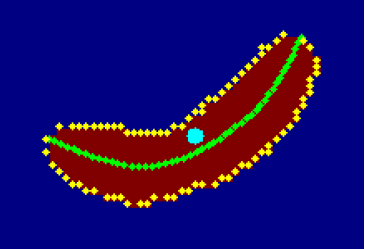
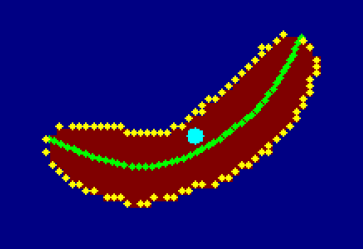
Add guide and readme

Changed region(s): [[0.1212, 0.1124, 0.9091, 0.8434]]

diff --git a/README.md b/README.md
@@ -1,8 +1,9 @@
-#WHISIT
-##Purpose
+# WHISIT
+
+## Purpose
 ***WHISIT*** (WHere IS IT) is a Matlab-based program developed to identify bacteria and measures the fluorescent signal in different compartments. It can do this on a set of independent microscopy pictures, or on a movie and trcking cells to follow the signal through multiple generations and cell-lines.
 
-####Background
+#### Background
 There are several programs for the analysis of foci and count numbers of spots in bacterial cells. However, few addresses how signal is distributed inside bacterial cells using a high-throughput and quantitative approach. For this reason the program WHISIT was created: for high-throughput quantification of fluorescent signal, specifically in into different areas of cells (e.g., membrane, cytosolic and polar compartments), rather than simply giving the average intensity value (as it is done by most software). Lastly, WHISIT can plot the fluorescence signal of related cells tracked in time lapse as a lineage tree, allowing for quantifying intergenerational changes. 
 
 In the following guide, we will explain how the program works and how to use it. WHISIT was created to be easy to use and no knowledge of programming is required, since it works with a graphic user interface (GUI). Results are created in a user friendly format accessible via Excel or any other similar spread-sheet program. In the last section, we will illustrate an outlook for the program and future improvements.
@@ -18,7 +19,7 @@ The program is divided into three GUI tabs, selectable in the upper part of the 
 - ***Lineage*** tab performs the analysis of time lapse images. This function track the changes in individual cells over time, tracking them across multiple frames. The stack of images are assumed to be from a time lapse or movie. This approach follows the changes occurring across generations, storing the information of divisions and relationships in order to re-create lineage trees. 
 - ***Plot Lineage*** tab generate plots using the results from the "Lineage” analysis. The plots display changes in fluorescence over generations as a lineage tree. WHISIT can analyse up to two fluorescent channels at a time for a given experiment.
 
-##0 – MicrobeTracker or Oufti?
+## 0 – MicrobeTracker or Oufti?
 WHISIT works side-by-side and uses the “detection” output file generated by either MicrobeTracker or Oufti: 
 	- **MicrobeTracker** (http://microbetracker.org/, Sliusarenko, O. et al., 2011)  
 	- **Oufti** (http://oufti.org/index.html, Paintdakhi, A. et al., 2016). 
@@ -26,19 +27,19 @@ Both programs are Matlab-based and their core algorithm take stacks of bright fi
 *Oufti* is the upgraded version of *MicrobeTracker* and therefore its use is recommended. Oufti has a superior cell identification algorithm, greater flexibility in the parameters chosen for analysis and is less prone to detection errors.
 A file is generated at the conclusion of the analysis of either program, in the Matlab format “.mat”. WHISIT can use the result generated by either of MicrobeTracker or Oufti: select from which program the *Detection.mat* was generated at point G in [Figure 1](Guide_Figures/WHISIT_GUI.png). 
 
-####Format of input images
+#### Format of input images
 A stack of bright field images is given as input in “Independent frames” analysis. This approach will consider each frame unrelated from the other and identify any cell within it (in the Matlab format “.mat”). The area of fluorescent signal for a cell can be slightly bigger than the area occupiedy in the bright field image. Using stringent or wrong parameters for cell detection could result in cells having a perimeter cut off part of the fluorescent signal. Experiment with a range of parameters in the detection of MicrobeTracker/Oufti to find the correct detection parameters that allow to include the fluorescent signal correctly. Each microscope and setting can change the acquisition and quality of bright field images, requiring adjustment during detection. Moreover, a good alignment of the fluorescent and bright field images is necessary. WHISIT does not account and cannot correct for possible shifts! The path to the folders containing the stack of images, for bright field and one to two fluorescent channels, can be loaded in the GUI at ***area C*** in [Figure 1](Guide_Figures/WHISIT_GUI.png). In ***area C*** it is also loaded the *Detection.mat* and the *ExpN_1_DB.mat* file created by Outfi/MicrobeTracker.
 
 
 
-###1 - Independent Frames Analysis - How to use it 
+### 1 - Independent Frames Analysis - How to use it 
 In the Algorithm panel, several parameters can be chosen. The first it is to choose which algorithm to use to analyse the images: ***Memb_to_Cyto***, which analyses the distribution of fluorescent in cytosol and membrane; or ***Polar_Sign***, which analyses the distribution of fluorescent specfically at the poles of cells. 
 
 | ![Figure 2](Guide_Figures/Algorithms.png) 
 | --- |
 | A schematic representation of the main steps that the program used to create masks for the different cell compartments. In (A) is shown the algorithm **Memb_2_Cyto**, while in (B) is shown the algorithm **Polar_Sig**. |
 
-####Parameters for analysis
+#### Parameters for analysis
 Several parameters are available to tune the analysis.
 - The algorithm ***Memb_to_Cyto*** divides the interior of cells in two compartments for analysis (see [Figure 2](Guide_Figures/Algorithms.png)). The “membrane area” extend inward from the perimeter of a cell, with a specific thickness (Membrane size). The remaining area is defined as “cytosol area”. This algorithm also identifies clusters of signals that are used to make a cross-section of cells and saves the signal profile at this specific positions. Two editable parameters allow for choosing the criteria for selection of clusters of signal. 
 NOTE: We named these signal clustering “foci” for simplicity, but we do not use the word “foci” in the classical definition, as round spot of signals. Here with “foci” we are considering a clusters of signal above a specific signal threshold level. Since the shape is not important, so they may have any shape.
@@ -57,7 +58,7 @@ NOTE: We named these signal clustering “foci” for simplicity, but we do not 
 	- **BOX BORDER**: when analysing fluorescence images, a cropped image of each cell is create and stored in the results. The data created is therefore not only a database of numbers, but also contains all the images related to each cell. This value determines the extra border to add to a cropped image of single cells. It does not change analysis results, but should be at least >10 pixels. NOTE: if a cell is located close to the border of a frame, there can be error in analysis. It is recommended to exclude cells during cell detection in MicrobeTracker or Oufti, which are closer than the box border distance.
 
 
-####Algorithm steps – quick overview
+#### Algorithm steps – quick overview
 The main algorithm proceed in three separate steps that run as follow:
 1 - **RETRIEVE CELLS**: retrieves the cells detected from the analysis file *Detection.mat*. Data is reorganized in a new format and named *ExpN_1_DB.mat*. This file is necessary for the next step (Analysis) and has no back compatability with MicrobeTracker or Oufti.
 2 - **ANALYSE**: initiates analysis of the fluorescent signal using the algorithm and parameters selected. *ExpN_1_DB.mat* file and stack of images (bright field, channel 1 and channel 2) are provided as inputs. *ExpN_1_DB.mat* remain unchanged and a new output file *ExpN_2_DB.mat* is created.
@@ -70,33 +71,32 @@ To summarize, the output file created are the following:
 	- *ExpN_txt*: this is a report file that can be opened with Excel and easily performs statistics and draws chats of the results. For more details on the data structure see the Output File Format section. The algorithm **Memb_2_Cyto** generates <u>two</u> of such files, while the algorithm **Polar_Sign** generate only <u>one</u> file.
 	- NOTE: *ExpN* can be any name assigned in the **field E** [Figure 1](Guide_Figures/WHISIT_GUI.png). The STOP button can be used at any point during second step “Analyse”. If it is pressed it will interrupt the analysis. However, data analysed will be lost. If you push START, it starts all over from the first cell. Data is saved only at the end of the step analysis.
 
-#####Algorithm steps **Memb_to_Cyto** 
+##### Algorithm steps **Memb_to_Cyto** 
 | **Figure** | **Description** |	
-| --- | --- |
+| --- |
 | ![Figure 4](Guide_Figures/Memb_2_Cyto/M2C_1.png) | The cell outline identified in the bright field image is used as a mask to isolate the fluorescence signal of the specific cell. A cropped image of the cell of interest is generated and used for all subsequent calculations. |
-| --- | --- |
+| --- |
 | ![Figure 5](Guide_Figures/Memb_2_Cyto/M2C_2.png) | The perimeter of a cell is converted in a set of pixel coordinates (yellow points). The cell longitudinal axis of a cell and the area are some of parameters calculated. |
-| --- | --- |
+| --- |
 | ![Figure 6](Guide_Figures/Memb_2_Cyto/M2C_3.png) | The next step involves identification of signal clusters (foci) using Signal threshold and Foci size as criteria. For each of those clusters a mask is generated and stored. Later each mask can be used to calculate the average signal intensity, areas, etc… |
-| --- | --- |
-| ![Figure 7](Guide_Figures/Memb_2_Cyto/M2C_41.png) &nbsp; ![Figure 8](Guide_Figures/Memb_2_Cyto/M2C_42.png) | The algorithm then identifies the membrane (right picture) and cytosol area (left picture).
+| --- |
+| ![Figure 7](Guide_Figures/Memb_2_Cyto/M2C_41.png) ![Figure 8](Guide_Figures/Memb_2_Cyto/M2C_42.png) | The algorithm then identifies the membrane (right picture) and cytosol area (left picture).
 The program generate masks that define the two areas. Those mask are then used to calculate the fluorescent signal in each specific compartment The Membrane size is the main parameter that defines the extent of those areas. |
-| --- | --- |
+| --- |
 | ![Figure 9](Guide_Figures/Memb_2_Cyto/M2C_5.png) | For each foci a profile line (in green) is created. This line runs through the center of the foci and is orthogonal to the cell axis. The profile line is an array of pixel values for the fluorescent signal where the line passed. This create signal profile at those position that can be plotted. |
-| --- | --- |
 
-#####Algorithm steps **Polar_Sig** 
+##### Algorithm steps **Polar_Sig**
 | **Figure** | **Description** |	
-| --- | --- |
+| --- |
 | ![Figure 10](Guide_Figures/Polar_Sig/PS_1.png) | The cell outline identified during detection is superimposed to the fluorescence channel. The cell coordinates are divided in two side (yellow and red points). The blue line is the cell axis |
-| --- | --- |
-| ![Figure 11](Guide_Figures/Polar_Sig/PS_21.png) &nbsp; ![Figure 12](Guide_Figures/Polar_Sig/PS_22.png)  | At the extremities of each pole a circle is drawn (in black, right picture). This is then used to isolate each pole and in each area the algorithm search the pixel with the highest intensity value (left picture). |
-| --- | --- |
-| ![Figure 13](Guide_Figures/Polar_Sig/PS_31.png) &nbsp; ![Figure 14](Guide_Figures/Polar_Sig/PS_32.png)  | From the highest intensity value a smaller circular area is drawn and will define the mask for each pole. The picture on the left shows the two polar mask (magenta and rec) together, and in yellow the cell outline is represented. In the picture on the left is shown the mask for the cytosol, minus the poles. |
-| --- | --- |
+| --- |
+| ![Figure 11](Guide_Figures/Polar_Sig/PS_21.png) ![Figure 12](Guide_Figures/Polar_Sig/PS_22.png)  | At the extremities of each pole a circle is drawn (in black, right picture). This is then used to isolate each pole and in each area the algorithm search the pixel with the highest intensity value (left picture). |
+| --- |
+| ![Figure 13](Guide_Figures/Polar_Sig/PS_31.png) ![Figure 14](Guide_Figures/Polar_Sig/PS_32.png)  | From the highest intensity value a smaller circular area is drawn and will define the mask for each pole. The picture on the left shows the two polar mask (magenta and rec) together, and in yellow the cell outline is represented. In the picture on the left is shown the mask for the cytosol, minus the poles. |
+| --- |
 
 
-###2 - Lineage and Lineage Plot
+### 2 - Lineage and Lineage Plot
 The ***Lineage*** function tab is very similar to the “Independent Frames” tab (see [Figure 3](Guide_Figures/Tab_3.png)). Algorithm, parameters and options for the most part are shared. There are two differences: the algorithm works in a single step (the “Lineage” function itself is just one script) and it requires as input an additional file containing the tracking of cells. This file is a list of tracks, where each track is a set of xy-coordinates of the position of a given cell in all the frames it appears in a time lapse. Fior example, this file can be created manually by the user, i.e. using the *mTrack* plugin of <u>**ImageJ**</u>.
 
 | ![Figure 15](Guide_Figures/Tab_3.png) 
@@ -110,6 +110,6 @@ Provided the inputs parameters, the list of tracks and *Detection.mat* the progr
 | An example of a cell lineage plot. |
 
 
-| ![Figure 17](Guide_Figures/Lineage.png) 
+| ![Figure 17](Guide_Figures/Lineage_MotherDev.png) 
 | --- |
 | Another example of analysis of florescent change in cell lineages within the mother-cell microfluidic device. |
